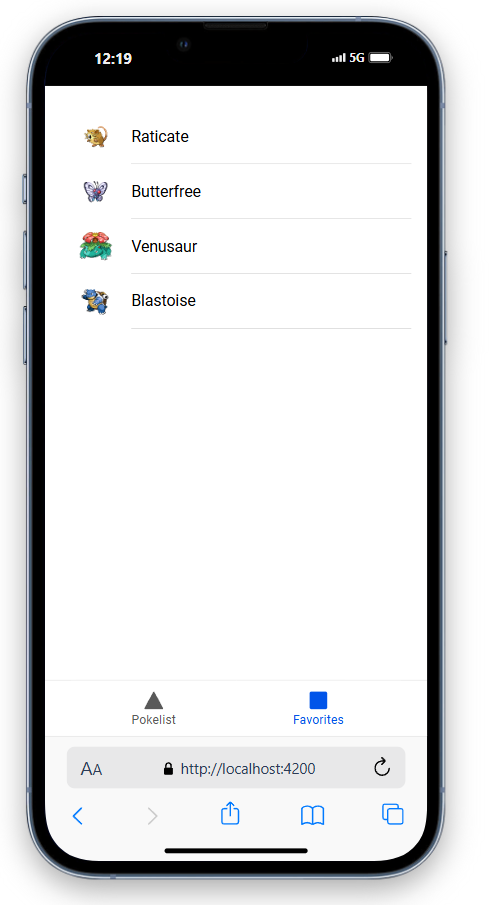
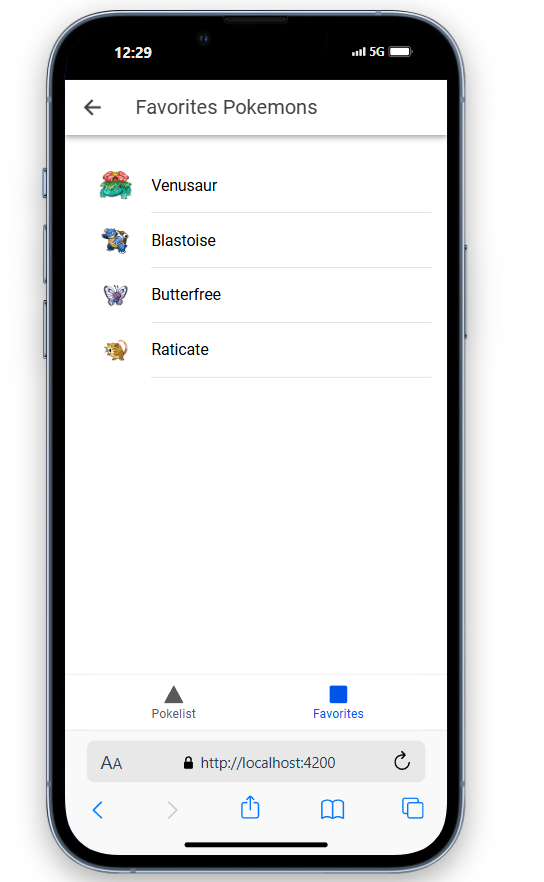
👌 :ok_hand: header on favorite

diff --git a/src/app/favorites/favorites.page.ts b/src/app/favorites/favorites.page.ts
@@ -10,6 +10,8 @@ import {
   IonLabel,
   IonItem,
   IonAvatar,
+  IonButtons,
+  IonBackButton,
 } from '@ionic/angular/standalone';
 import { FavoriteService } from '../services/favorite.service';
 import { ApiPokemonSerivce } from '../services/apiPokemon.service';
@@ -27,9 +29,14 @@ import { ApiPokemonSerivce } from '../services/apiPokemon.service';
     IonLabel,
     IonItem,
     IonAvatar,
+    IonHeader,
+    IonTitle,
+    IonToolbar,
+    IonButtons,
+    IonBackButton,
   ],
 })
-export class FavoritesPage   {
+export class FavoritesPage {
   favoritePokemons: any[] = [];
 
   constructor(

diff --git a/src/app/favorites/favorites.page.html b/src/app/favorites/favorites.page.html
@@ -1,3 +1,13 @@
+<ion-header>
+  <ion-toolbar>
+    <ion-title>Favorites Pokemons</ion-title>
+    <ion-buttons slot="start">
+      <ion-back-button defaultHref="/"></ion-back-button>
+    </ion-buttons>
+  </ion-toolbar>
+</ion-header>
+
+
 <ion-content class="ion-padding">
   <ion-list>
     <ion-item *ngFor="let pokemon of favoritePokemons">
